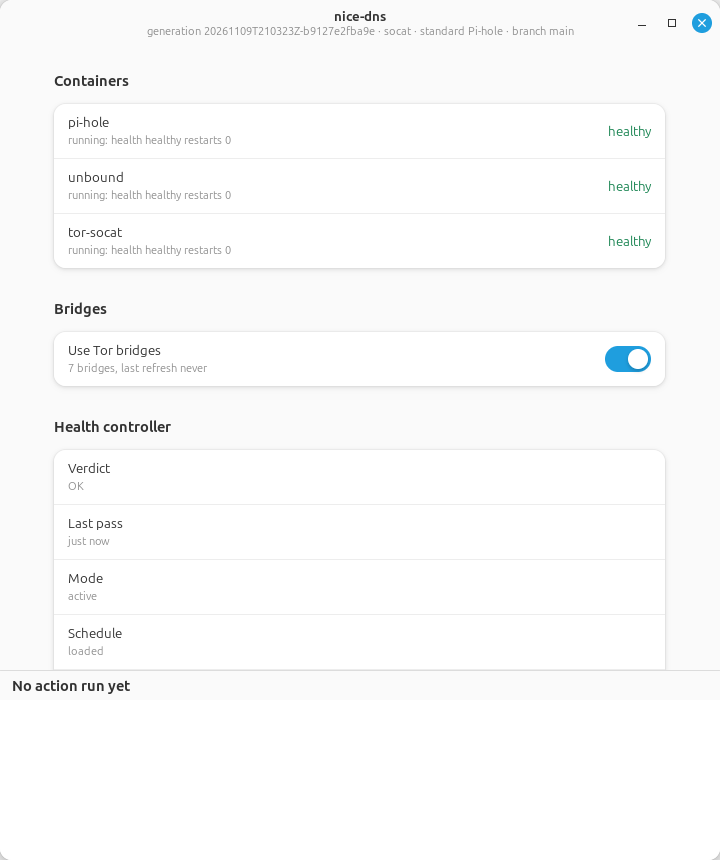
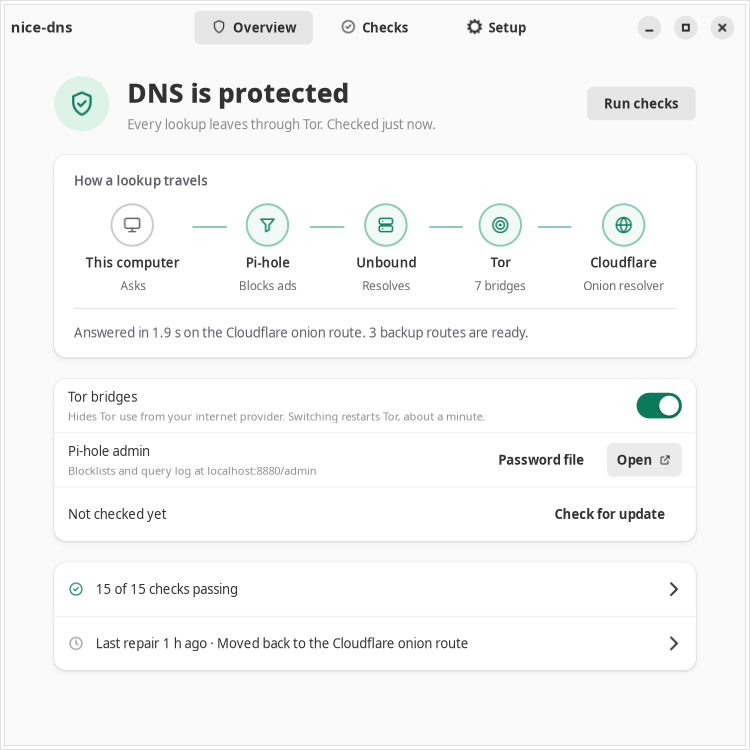
README and screenshots for the redesigned GUIs; one repair-link wording
The two GUI sections describe the Overview, Checks and Setup views, the
action bar and the macOS menu-bar panel. The Linux Last repair link keeps
the repair sentence as written, as macOS does, so a raw target is not
lowercased.

Claude-Session: https://claude.ai/code/session_01QUvLaHJWhNYTkDJhLEZtps

diff --git a/gui/linux/src/level.rs b/gui/linux/src/level.rs
@@ -909,10 +909,7 @@ pub fn repairs(s: &Status, now: u64) -> Vec<Repair> {
 /// "Last repair {ago} \u{b7} {newest repair sentence}", when there is one.
 pub fn last_repair_link(repairs: &[Repair]) -> Option<String> {
     let r = repairs.first()?;
-    let sentence = {
-        let mut c = r.text.chars();
-        c.next().map(|f| f.to_lowercase().collect::<String>() + c.as_str()).unwrap_or_default()
-    };
+    let sentence = &r.text;
     if r.when.is_empty() {
         Some(format!("Last repair: {sentence}"))
     } else {
@@ -1431,7 +1428,7 @@ mod tests {
             ["Moved back to the Cloudflare onion route", "Moved to the Cloudflare Tor exit route"]
         );
         assert_eq!(r[0].when, "1 h ago");
-        assert_eq!(last_repair_link(&r).unwrap(), "Last repair 1 h ago \u{b7} moved back to the Cloudflare onion route");
+        assert_eq!(last_repair_link(&r).unwrap(), "Last repair 1 h ago \u{b7} Moved back to the Cloudflare onion route");
         assert_eq!(last_repair_link(&[]), None);
     }
 

diff --git a/gui/linux/src/window.rs b/gui/linux/src/window.rs
@@ -1758,7 +1758,7 @@ mod tests {
         assert_eq!(b.path.len(), 5);
         assert!(b.path[1..].iter().all(|n| n.state == NodeState::Ok));
         assert!(b.attention.is_empty());
-        assert_eq!(b.links, ["15 of 15 checks passing", "Last repair 1 h ago \u{b7} moved back to the Cloudflare onion route"]);
+        assert_eq!(b.links, ["15 of 15 checks passing", "Last repair 1 h ago \u{b7} Moved back to the Cloudflare onion route"]);
         assert!(b.bridges.on);
         assert_eq!(b.update.title, "Not checked yet");
         assert_eq!(b.badge, 0);

diff --git a/README.md b/README.md
@@ -45,17 +45,19 @@ nice-dns uninstall
 
 ## The window (Linux)
 
-![The nice-dns window on Linux Mint](docs/images/gui-linux.png)
+![The nice-dns window on Linux: the Overview view](docs/images/gui-linux.png)
 
 On Linux the installer also puts `nice-dns-gui` on the machine, with a
-launcher in the applications menu. The window shows what the stack is doing:
-each container, the health controller's last verdict, the bridges switch,
-recent actions, and whether an update is waiting. Its Installed section has a
-Proxy selector (haproxy, socat) and a Pi-hole selector (standard, hardened);
-picking the other value asks first and then runs `nice-dns switch`. Its
-buttons restart the stack, check for and install an update, turn bridges on
-or off, run or stop the health controller, reinstall and uninstall. Each one runs the `nice-dns`
-command, and its output appears in the window. Root steps ask for your
+launcher in the applications menu. The window has three views. Overview says
+in one sentence whether DNS is protected, draws the lookup path (this
+computer, Pi-hole, Unbound, Tor, the resolver), lists any check that needs
+attention, and holds the bridges switch, the Pi-hole admin and the update
+row. Checks shows every check in three groups, the automatic-checks switch
+and the controller's recent repairs. Setup holds the Tor proxy and Pi-hole
+image selectors (picking the other value asks first, then runs `nice-dns
+switch`), the version, restart, reinstall and uninstall. Each control runs the
+`nice-dns` command; while it runs a bar at the bottom shows its progress, and
+its full output opens on demand or by itself when it fails. Root steps ask for your
 password through the system's dialog (polkit). The window is a release asset,
 checked against `release/assets.lock`; an install without network goes on
 without it and says so. It needs GTK 4.14 and libadwaita 1.5 (Ubuntu 24.04,
@@ -63,16 +65,18 @@ Linux Mint 22 or later); on an older system the install goes on without it.
 
 ## The menu bar (macOS)
 
-![The nice-dns window on a Mac](docs/images/gui-mac.png)
+![The nice-dns window on a Mac: the Overview view](docs/images/gui-mac.png)
 
 On macOS the installer puts `nice-dns.app` in `~/Applications` (yours, no
-administrator password). Open it and a shield appears in the menu bar: green
-when every check is healthy, amber when the health controller is behind or a
-check cannot tell, red when the controller or a check reports a failure, grey
-when nothing is installed. Its menu runs the
-same actions as the Linux window (the proxy and the Pi-hole flavour are two
-submenus with a check mark on the installed one), and Open window shows the same sections with
-the output of the last action. Like the Linux window it is a release asset
+administrator password). Open it and a shield appears in the menu bar: a
+check mark when DNS is protected, an exclamation mark (amber) when DNS works
+but a check needs attention or the status is out of date, a cross (red) when
+DNS is down, a slashed shield when nothing is installed. Click it for a panel
+with the status, the lookup path, the bridges switch, Run Checks Now, Open
+Pi-hole Admin and Restart the Stack. Open nice-dns shows the same Overview,
+Checks and Setup views as the Linux window; the proxy and Pi-hole selectors
+live in Setup. An action from the panel opens the window only when it asks a
+question or fails. Like the Linux window it is a release asset
 checked against `release/assets.lock`; an install without network goes on
 without it and says so. It does not start by itself at login yet; add it under
 System Settings > General > Login Items if you want it there.
